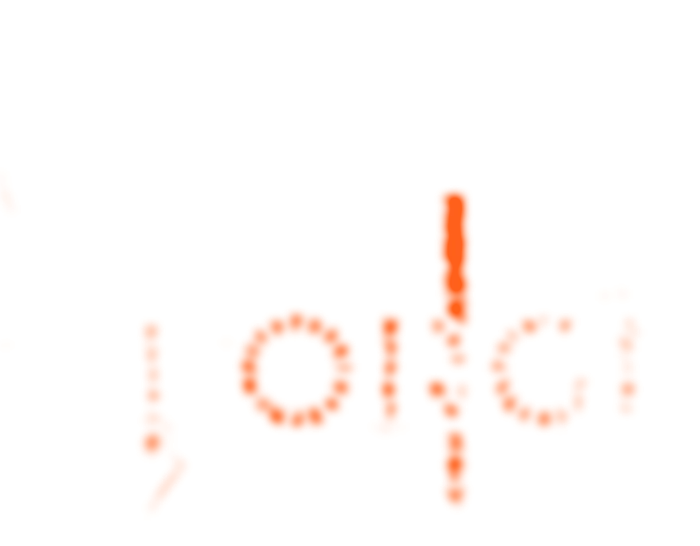
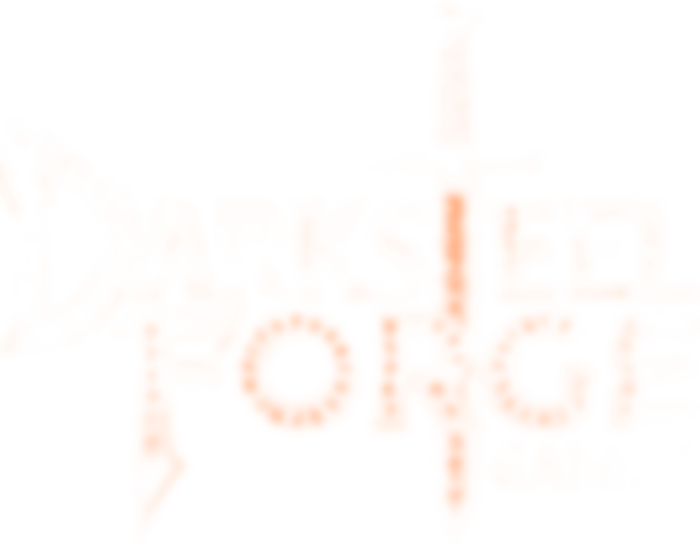
Rune glow runs D to GAMING at a constant speed; FB link; no ghost on close
THE GLOW COULD NOT START AT THE D BECAUSE NOTHING THERE WAS LIT.
runeglow/runehot were built from the artwork's RED pixels, and only FORGE
and the blade have red runes - DARKSTEEL's are carved but grey, so the
baked layers covered 22%-89% of the mark and visually only the lower word.
Rebuilt from the logo as (local darkness within an eroded interior) OR
(redness): the erosion matters, because the letters' own bevels are also
darker than their surroundings and lighting those turned the whole mark
brassy on the first attempt. Coverage is now 10%-91%, which is every
engraved line including the D's.

THE SWEEP WAS NOT SMOOTH FOR THREE REASONS, AND DIRECTION WAS NOT ONE:
  - cubic-bezier(.45,0,.55,1) is an ease-in-out, so it crept, rushed, then
    crawled. Now linear.
  - the keyframes finished travelling at 60% and held for the other 40%:
    2.4s of every 6s had no highlight at all. The travel is now the cycle.
  - a 300% mask with a 20% core is a hard stripe that spent most of the
    journey off the artwork. 160% with a long feather keeps light on the
    engraving the whole way across.
The underglow is now exactly half the sweep's period (3.6s to 7.2s) so the
two stay locked rather than drifting against each other.

Measured over one cycle, 18 frames, fire hidden so only the sweep varies:
monotonic left to right, step 27.0px +/- 8.4px, travelling 11% -> 86% of
the mark, largest single-frame brightness change 25% of peak.
[…]

diff --git a/index.html b/index.html
@@ -65,13 +65,37 @@ h1,h2{margin:0;font-weight:600}
 /* the engraved runes: a pre-baked glow layer (light bleeding out of the grooves) that only animates
    opacity, plus a masked hot copy so a band of heat travels along the engraving. No runtime blur or
    drop-shadow filters - those are what made it muddy and expensive. */
+/* THE HEAT TRAVELS AT A CONSTANT SPEED, D TO GAMING, AND NEVER STOPS DEAD.
+   Matt: "have an ambient glowing starting at the D and then ending at the very
+   end and make it all smooth right now it's not smooth." Three things made it
+   not smooth, and the direction was never one of them - it already ran left to
+   right:
+     - cubic-bezier(.45,0,.55,1) is an ease-IN-OUT, so the band crept away from
+       the D, rushed the middle and crawled to a halt. Now linear.
+     - the old keyframes finished the travel at 60% and HELD for the remaining
+       40%, so 2.4s of every 6s had no highlight at all. Now the travel is the
+       whole cycle.
+     - a 300% mask with a 20%-wide core is a hard stripe that is off the artwork
+       for most of its journey. 220% with a long feather either side keeps light
+       on the engraving the whole way across, which is what makes it ambient
+       rather than a scanner.
+   The underglow is now exactly half the sweep's period (3.6s against 7.2s) so
+   the two stay locked instead of drifting in and out of phase against each
+   other, which is what made the whole thing look arbitrary. */
 .mark .rglow{position:absolute;inset:0;z-index:2;mix-blend-mode:screen;pointer-events:none;opacity:.5;
-  animation:runepulse 3.8s ease-in-out infinite;will-change:opacity}
-@keyframes runepulse{0%,100%{opacity:.34}50%{opacity:.78}}
+  animation:runepulse 3.6s ease-in-out infinite;will-change:opacity}
+@keyframes runepulse{0%,100%{opacity:.38}50%{opacity:.74}}
 .mark .rhot{position:absolute;inset:0;z-index:3;mix-blend-mode:screen;pointer-events:none;opacity:.9;
-  -webkit-mask-image:linear-gradient(100deg,transparent 40%,#000 48%,#000 52%,transparent 60%);mask-image:linear-gradient(100deg,transparent 40%,#000 48%,#000 52%,transparent 60%);
-  -webkit-mask-size:300% 100%;mask-size:300% 100%;animation:runesweep 6s cubic-bezier(.45,0,.55,1) infinite;will-change:mask-position}
-@keyframes runesweep{0%{-webkit-mask-position:190% 0;mask-position:190% 0}60%,100%{-webkit-mask-position:-100% 0;mask-position:-100% 0}}
+  -webkit-mask-image:linear-gradient(100deg,transparent 28%,rgba(0,0,0,.4) 38%,#000 46%,#000 52%,rgba(0,0,0,.4) 60%,transparent 70%);
+  mask-image:linear-gradient(100deg,transparent 28%,rgba(0,0,0,.4) 38%,#000 46%,#000 52%,rgba(0,0,0,.4) 60%,transparent 70%);
+  -webkit-mask-size:160% 100%;mask-size:160% 100%;animation:runesweep 7.2s linear infinite;will-change:mask-position}
+/* Sized so the band is ON the artwork for the whole cycle instead of 40% of it.
+   mask-position P puts the band's centre at -0.6P + 78.4 percent of the mark,
+   so 185% starts it with its leading edge on the D and -90% carries its trailing
+   edge just past the G of GAMING. At the previous 220%/160->-60 the core only
+   crossed the logo between 2.5s and 5.4s of every 7.2s, which is why it still
+   read as arriving and leaving rather than travelling. */
+@keyframes runesweep{from{-webkit-mask-position:185% 0;mask-position:185% 0}to{-webkit-mask-position:-90% 0;mask-position:-90% 0}}
 @media (prefers-reduced-motion:reduce){.mark .rglow,.mark .rhot{animation:none}.mark .rhot{display:none}}
 .mark .back{position:absolute;inset:-14% -10%;z-index:-1;pointer-events:none;background:radial-gradient(46% 38% at 50% 52%,rgba(175,195,220,.16),transparent 72%)}
 .mark .glow{position:absolute;left:64.8%;top:-6%;width:38%;height:112%;transform:translateX(-50%);z-index:1;pointer-events:none;
@@ -507,7 +531,7 @@ footer a{color:var(--ink-2);display:inline-block;padding:.6rem 0}
     <h2 class="ember">Follow the forge</h2>
     <p>Drops, restocks and the opening date land here first.</p>
     <div class="socials">
-      <a href="#" data-soon onclick="event.preventDefault();document.getElementById('soonNote').hidden=false" aria-label="Facebook"><svg viewBox="0 0 24 24" aria-hidden="true"><path d="M13.5 22v-8h2.7l.4-3.1h-3.1V8.9c0-.9.3-1.5 1.6-1.5h1.6V4.6c-.3 0-1.2-.1-2.3-.1-2.3 0-3.9 1.4-3.9 4v2.4H7.8V14h2.7v8h3z"/></svg>Facebook</a>
+      <a href="https://www.facebook.com/p/Darksteel-Forge-Gaming-61588901174551/" target="_blank" rel="noopener" aria-label="Facebook"><svg viewBox="0 0 24 24" aria-hidden="true"><path d="M13.5 22v-8h2.7l.4-3.1h-3.1V8.9c0-.9.3-1.5 1.6-1.5h1.6V4.6c-.3 0-1.2-.1-2.3-.1-2.3 0-3.9 1.4-3.9 4v2.4H7.8V14h2.7v8h3z"/></svg>Facebook</a>
       <a href="https://www.instagram.com/darksteelforgegames" target="_blank" rel="noopener" aria-label="Instagram"><svg viewBox="0 0 24 24" aria-hidden="true"><path d="M12 2.2c3.2 0 3.6 0 4.9.1 1.2.1 1.8.2 2.2.4.6.2 1 .5 1.4.9.4.4.7.8.9 1.4.2.4.4 1 .4 2.2.1 1.3.1 1.7.1 4.9s0 3.6-.1 4.9c-.1 1.2-.2 1.8-.4 2.2-.2.6-.5 1-.9 1.4-.4.4-.8.7-1.4.9-.4.2-1 .4-2.2.4-1.3.1-1.7.1-4.9.1s-3.6 0-4.9-.1c-1.2-.1-1.8-.2-2.2-.4-.6-.2-1-.5-1.4-.9-.4-.4-.7-.8-.9-1.4-.2-.4-.4-1-.4-2.2C2.2 15.6 2.2 15.2 2.2 12s0-3.6.1-4.9c.1-1.2.2-1.8.4-2.2.2-.6.5-1 .9-1.4.4-.4.8-.7 1.4-.9.4-.2 1-.4 2.2-.4C8.4 2.2 8.8 2.2 12 2.2zm0 1.8c-3.1 0-3.5 0-4.8.1-.9 0-1.4.2-1.7.3-.4.2-.7.4-1 .7-.3.3-.5.6-.7 1-.1.3-.3.8-.3 1.7-.1 1.3-.1 1.7-.1 4.8s0 3.5.1 4.8c0 .9.2 1.4.3 1.7.2.4.4.7.7 1 .3.3.6.5 1 .7.3.1.8.3 1.7.3 1.3.1 1.7.1 4.8.1s3.5 0 4.8-.1c.9 0 1.4-.2 1.7-.3.4-.2.7-.4 1-.7.3-.3.5-.6.7-1 .1-.3.3-.8.3-1.7.1-1.3.1-1.7.1-4.8s0-3.5-.1-4.8c0-.9-.2-1.4-.3-1.7-.2-.4-.4-.7-.7-1-.3-.3-.6-.5-1-.7-.3-.1-.8-.3-1.7-.3-1.3-.1-1.7-.1-4.8-.1zm0 3.1a4.9 4.9 0 1 1 0 9.8 4.9 4.9 0 0 1 0-9.8zm0 8.1a3.2 3.2 0 1 0 0-6.4 3.2 3.2 0 0 0 0 6.4zm6.3-8.3a1.15 1.15 0 1 1-2.3 0 1.15 1.15 0 0 1 2.3 0z"/></svg>Instagram</a>
       <a href="#" data-soon onclick="event.preventDefault();document.getElementById('soonNote').hidden=false" aria-label="X"><svg viewBox="0 0 24 24" aria-hidden="true"><path d="M17.2 3h3.3l-7.2 8.2L21.8 21h-6.6l-5.2-6.6L4.1 21H.8l7.7-8.8L.4 3H7l4.7 6.1L17.2 3zm-1.2 16h1.8L7.8 4.8H5.9L16 19z"/></svg>X</a>
     </div>
@@ -1236,13 +1260,32 @@ marqueeReady.then(() => fetch("cards.json").then(r => r.json())).then(async card
 
   const closeStage = () => {
     const back = art.getBoundingClientRect();
+    /* HIDE THE FLAT CARD UNTIL THE 3D ONE ACTUALLY ARRIVES ON IT. The panel
+       fades back over 420ms on a front-loaded ease, so it is ~90% visible by
+       200ms - while gl.leave() is a 460ms flight and the card is only a third
+       of the way home. You therefore watch the destination card fade up
+       underneath the one still travelling towards it. Matt: "you can see the
+       card show up where it's going a second before it gets there like the
+       shadow of it".
+       The panel CHROME still comes back early, which is what makes the return
+       feel immediate; only the art waits. leave() lands face-on exactly on this
+       rect, so the hand-over at finish() is an invisible swap.
+       It has to be an ANIMATION, not `art.style.opacity`. flyFrom() leaves a
+       fill:"both" animation on this element - an opacity one whenever it took
+       the no-thumbnail fallback - and a finished filling animation outranks an
+       inline style, so the inline version silently did nothing: computed
+       opacity stayed 1 with style.opacity "0". */
+    const hideArt = play(art, [{ opacity: 0 }, { opacity: 0 }], 700, "linear");
     // The viewer's backdrop never went away, so only the panel has to come back.
     play(panel, [{ opacity: 0 }, { opacity: 1 }], 420, EASE_OUT, 60);
     play($("#sBg"), [{ opacity: 1 }, { opacity: 0 }], 460, EASE_IN);
     play($("#sName"), [{ opacity: 1 }, { opacity: 0 }], 200, EASE_IN);
     play($(".shint"), [{ opacity: 1 }, { opacity: 0 }], 200, EASE_IN);
     play($("#sClose"), [{ opacity: 1 }, { opacity: 0 }], 200, EASE_IN);
-    const finish = () => { S.removeAttribute("open"); $("#sBg").style.opacity = ""; };
+    const finish = () => {
+      S.removeAttribute("open"); $("#sBg").style.opacity = "";
+      try { hideArt.cancel(); } catch (e) {}
+    };
     if (gl && gl.leave && back.width && !slow.matches) gl.leave(back, finish);
     else setTimeout(finish, 200);
   };
